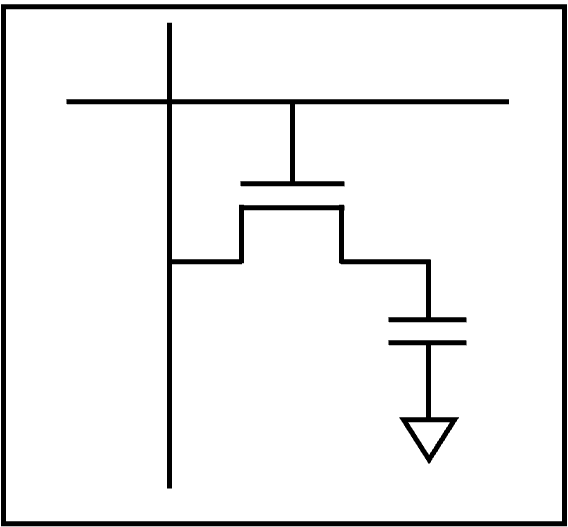
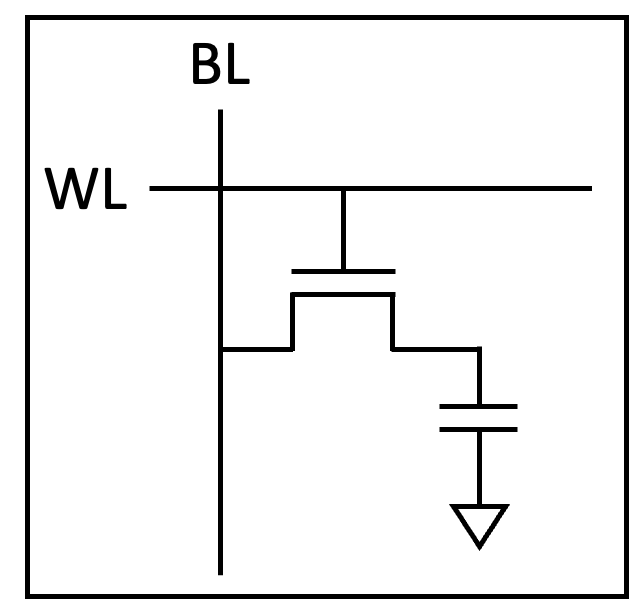
figures added to DRAM oprtaion

Changed region(s): [[0.0, 0.0, 1.0, 1.0]]

diff --git a/_posts/2022-04-05-DRAM_Operation.md b/_posts/2022-04-05-DRAM_Operation.md
@@ -1,13 +1,12 @@
 ---
 layout: single
-title: "DRAM Architecture and Operation"
-description: DRAM Architecture and Operation
+title: "Basic DRAM Device Configuration"
+description: Basic DRAM Device Configuration
 date: "2022-04-05 21:12:00 +0900"
 last_modified_at: "2022-04-13 21:30:00 +0900"
 tags: ["DRAM", "Memory Architecture"]
 ---
 	
-> __Part I__ DRAM Device Configuration
 ---
 
 # DRAM
@@ -18,6 +17,7 @@ How has it been possible to constantly increase the performance?
 
 Well, I guess we first should dive into what DRAM looks like inside and see how it operates.
 
+> DRAM Device Configuration
 ---
 
 I drew a "simplified" (plz not be offended by undetailed illustration) version of overall DRAM structure here.
@@ -31,10 +31,78 @@ Before deeply delving into a recent DRAM architecture, first looking into DDR3 (
 
 Messy! Start with the basic (the smallest) part, __DRAM cell__.
 
+> DRAM Cell
 ---
 <p align="center">
 <img src="../assets/images/DRAM_Cell.png" alt="DRAM_Cell" width="300"/>
 </p>
 
-This is a basic DRAM Cell (1T1C : 1 transistor & 1 capacitor). Wait here, the basic implies different cell structures like 3T1C, so you can search for them ~~or just click the link if you're curious about [3T1C DRAM Cell.](https://google/com) to be updated soon~~
-Again, 
+This is a basic DRAM Cell (1T1C : 1 transistor & 1 capacitor). Wait here, the basic implies that there're also different cell structures like 3T1C, so you can search for them ~~or just click the link here [3T1C DRAM Cell.](https://google.com)~~
+Generally memory cell stores data as 1 or 0. 
+In DRAM cell, the capacitor store the data and the NMOS transistor swtich the capacitor with Bit Line (BL), now we call it access transistor. 
+As the gate of the access transistor is connected with Word Line (WL), we can see that it's controlled by WL.
+
+Let me explain how it operates Read / Write command.
+
+> DRAM Cell Write Operation
+---
+
+Look at the figure below.
+As WL has voltage 0, the access transistor is turned off.
+Whatever the capacitor stores, it doesn't matter because we're goind to write a certain data.
+For writing data, there's strong Write Driver somewhere at the bottom.
+<p align="center">
+<img src="../assets/images/DRAM_write_1.png" alt="DRAM_Cell" width="300"/>
+</p>
+
+If we increase the voltage of WL, the access transistor is turned on.
+As the capacitor is now connected to the BL, Write Driver flows the charge all the way to the capacitor.
+<p align="center">
+<img src="../assets/images/DRAM_write_2.png" alt="DRAM_Cell" width="300"/>
+</p>
+
+No matter which value the capacitor held, capacitor would have the same data with the Write Driver.
+And then close the Access Transistor again. 
+Wow we just wrote the data into the DRAM Cell.
+<p align="center">
+<img src="../assets/images/DRAM_write_3.png" alt="DRAM_Cell" width="300"/>
+</p>
+
+
+> DRAM Cell Read Operation
+---
+
+Read operation is a bit complicated but still simple.
+Here's we have a capacitor which stores the data with the access transistor off.
+Before we open the transistor, we "precharge" the BL with 1/2 voltage.
+<p align="center">
+<img src="../assets/images/DRAM_read_1.png" alt="DRAM_Cell" width="300"/>
+</p>
+
+And then, by opening the access transistor, we let the capacitor and BL charge share.
+Since we set the BL with 1/2, we can see the direction BL voltage varies depending on the stored data.
+<p align="center">
+<img src="../assets/images/DRAM_read_2.png" alt="DRAM_Cell" width="300"/>
+</p>
+
+For example, assume that we have 0 data, which is empty.
+Sharing charge is just like sharing the water with 2 different bottles of water.
+When we consider the overll DRAM cell array, BL is quite length. 
+That leads to have a lot of parasite cap, so the charge is larger than a DRAM cell can have.
+<p align="center">
+<img src="../assets/images/DRAM_charge_sharing_00.png" alt="DRAM_Cell" width="600"/>
+</p>
+
+Turn the switch on? Water flows into the cell resulting in a little lower surface level.
+<p align="center">
+<img src="../assets/images/DRAM_charge_sharing_01.png" alt="DRAM_Cell" width="600"/>
+</p>
+
+In the same manner, we can think of the 1 data case with the different direction of flow.
+<p align="center">
+<img src="../assets/images/DRAM_charge_sharing_10.png" alt="DRAM_Cell" width="600"/>
+</p>
+
+<p align="center">
+<img src="../assets/images/DRAM_charge_sharing_11.png" alt="DRAM_Cell" width="600"/>
+</p>
